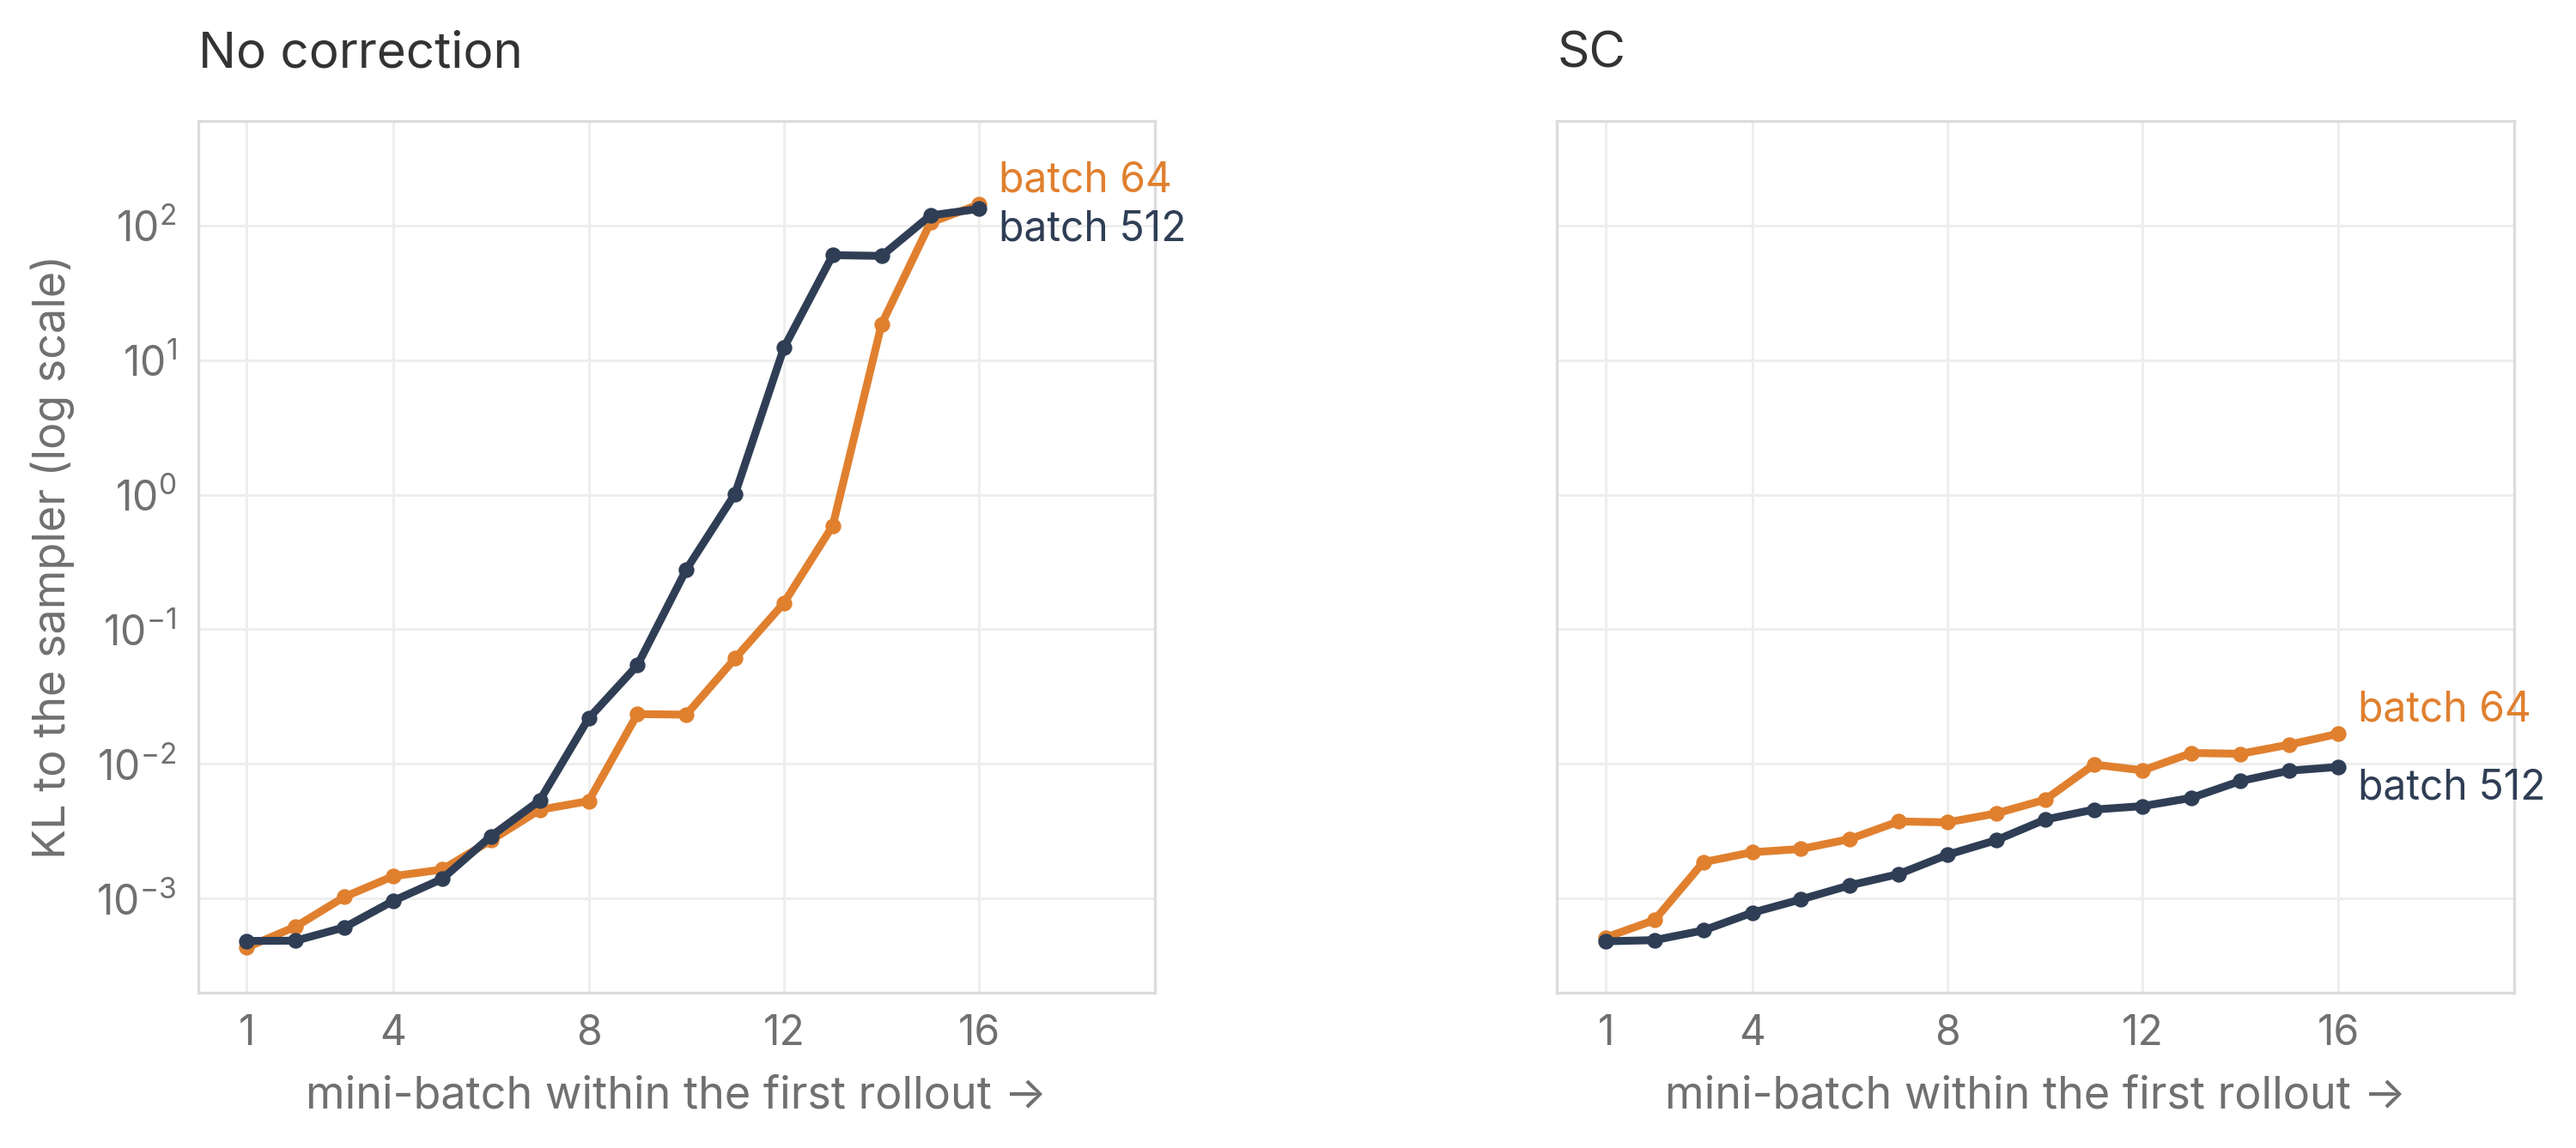
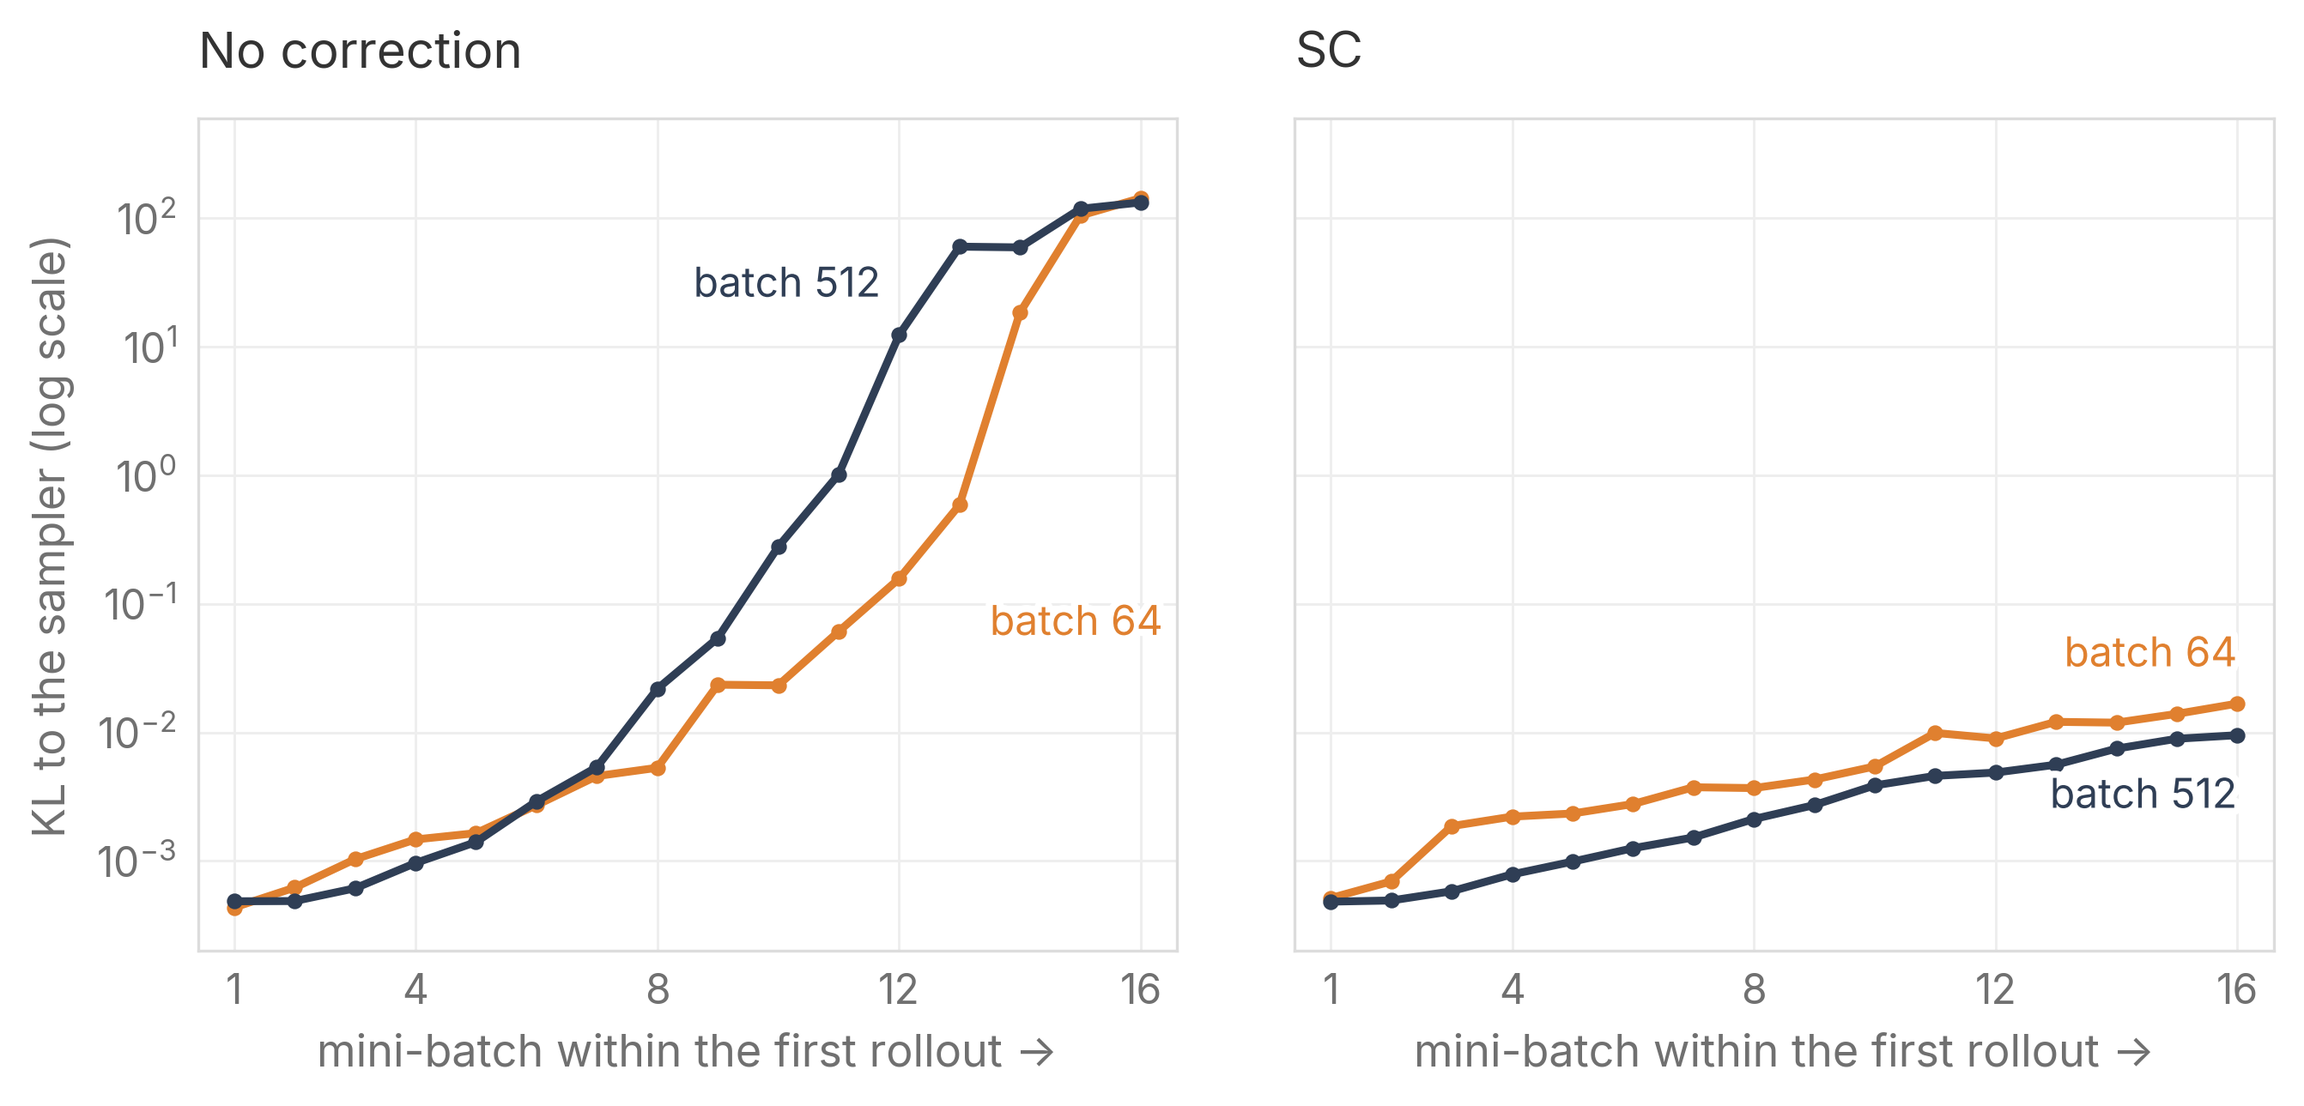
sc-drift-and-distance: Figures 6 and 7 updated to the restyled versions

diff --git a/sc-drift-and-distance/index.html b/sc-drift-and-distance/index.html
@@ -186,10 +186,10 @@ html[data-theme=dark] .body figure img{filter:invert(.92) hue-rotate(180deg)}
 <p>The left two panels of <a class="figref" href="#fig-5">Figure 5</a> show that a larger batch stabilizes all three methods. At batch 512, they all keep up with on-policy to the end, while at batch 64 the curves are noisy and vanilla IS collapses. The next subsection shows the same pattern on 4B at batch 128.</p>
 <p>The larger batch works by shrinking the distance. With less noise per step, the trainer does not move away from the sampler by chance. An 8× larger batch lowers the median KL about 8×, and truncation almost never triggers. <a class="secref" href="#sec-3">Section 3</a> explains why the drop is so close to 8×.</p>
 <p><a class="figref" href="#fig-6">Figure 6</a> shows that a larger batch helps only once drift is removed. Without correction, the KL runs away within the first rollout at batch 512 just as at batch 64. Drift pushes every step in the same direction, and a larger batch averages away only random noise. With SC, the KL stays small at both, and batch 512 ends the rollout at about half the KL of batch 64.</p>
-<figure id="fig-6"><img src="figs/fig06_nocorr_batch.png?v=ab9652e0cc" alt="Figure 6"><figcaption><b>Figure 6. First-rollout KL, with and without SC.</b> 0.8B on GSM8K, staleness 15, batch 64 and 512.</figcaption></figure>
+<figure id="fig-6"><img src="figs/fig06_nocorr_batch.png?v=764aa37a57" alt="Figure 6"><figcaption><b>Figure 6. First-rollout KL, with and without SC.</b> 0.8B on GSM8K, staleness 15, batch 64 and 512.</figcaption></figure>
 <h3 id="sec-2-3">2.3 High staleness and small batches: SC alone can break</h3>
 <p>Next we move to the opposite regime, with older data and smaller batches. Unlike vanilla IS, SC does not multiply the gradient by importance weights, so a single extreme weight cannot break it. It can still fail when the trainer moves far. We run SC alone at staleness 63 (64 mini-batches per rollout) with batches of 32, 64, and 512.</p>
-<figure id="fig-7"><img src="figs/fig07_sc_alone_staleness63_v4.png?v=30c6723eaf" alt="Figure 7"><figcaption><b>Figure 7. SC alone at three batch sizes.</b> 0.8B on GSM8K, staleness 63, batch 32, 64, and 512. Left: training reward. Right: the largest KL in each rollout (log scale).</figcaption></figure>
+<figure id="fig-7"><img src="figs/fig07_sc_alone_staleness63_v4.png?v=36856d61ac" alt="Figure 7"><figcaption><b>Figure 7. SC alone at three batch sizes.</b> 0.8B on GSM8K, staleness 63, batch 32, 64, and 512. Left: training reward. Right: the largest KL in each rollout (log scale).</figcaption></figure>
 <p>The left panel of <a class="figref" href="#fig-7">Figure 7</a> shows that SC alone keeps up with on-policy at batch 512 but breaks at smaller batches. Batch 32 collapses at step 448. Batch 64 trains to the end but finishes 14 points below its best, and a second batch-64 seed, not shown, collapses in its first rollout. In the right panel, the smaller the batch, the higher the largest KL in each rollout. We repeat the test on 4B with DAPO-Math-17k at staleness 15 and also compare the three methods.</p>
 <figure id="fig-8"><img src="figs/fig13_qwen4b_dapo.png?v=9494c23661" alt="Figure 8"><figcaption><b>Figure 8. Vanilla IS, SC alone, and SC + TIS at batch 16 and batch 128.</b> 4B on DAPO-Math-17k, staleness 15, learning rate 0.033. Left: batch 16. Purple: SC + KL penalty with β = 0.01 (<a class="secref" href="#sec-4-3">Section 4.3</a>). Right: batch 128. On-policy runs 160 steps.</figcaption></figure>
 <p>The 4B runs in <a class="figref" href="#fig-8">Figure 8</a> fail the same way at small batch. At batch 16, all three methods collapse, and each collapse starts with a sudden spike in the KL to the sampler. At batch 128, all three keep up with on-policy and roughly double the base model’s AIME scores. The differences among them are within sampling error (see the evaluation below). In both models, every failure comes with a large KL to the sampler, and a larger batch keeps that KL small. Why does the batch matter so much, and does it always help?</p>
